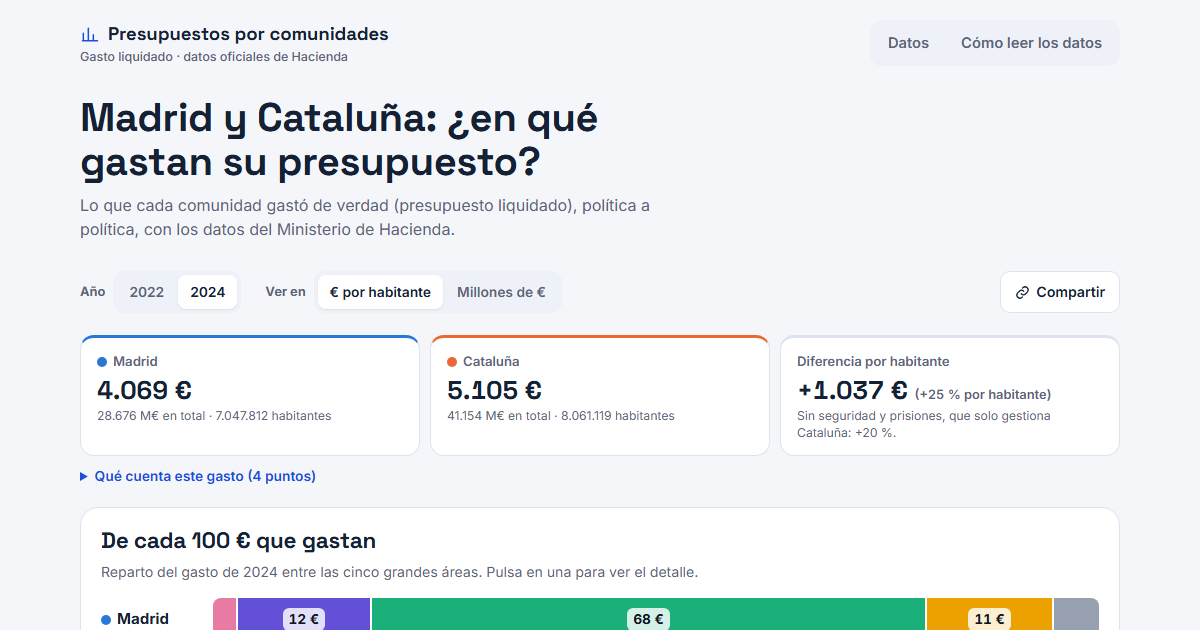
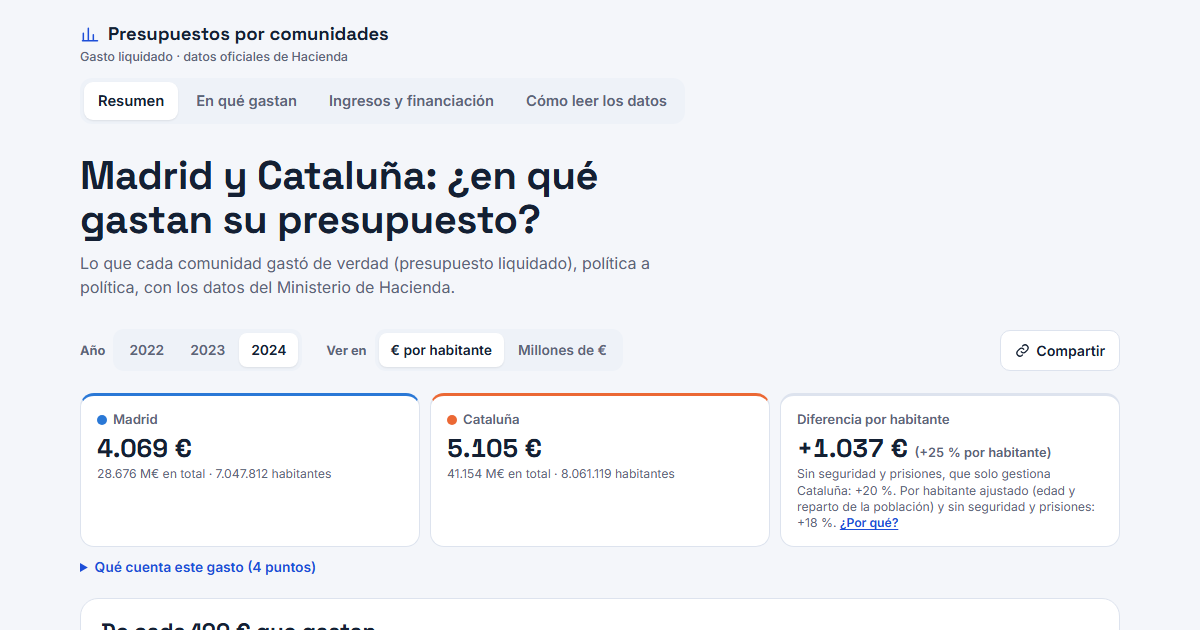
Deuda: deuda nueva neta y explicación de intereses frente a devolución; fuentes del pie; nueva imagen para compartir

diff --git a/src/components/Dinero.tsx b/src/components/Dinero.tsx
@@ -97,14 +97,35 @@ export function Deuda({ anio, u }: { anio: number; u: Unidad }) {
     { id: "viva", nombre: `Deuda acumulada a 31 de diciembre`, ayuda: "Según el Banco de España (Protocolo de Déficit Excesivo).", v: porCcaa((c) => DEUDA[c][String(anio)]), fuerte: true },
     { id: "nueva", nombre: "Préstamos nuevos en el año", ayuda: "Capítulo 9 de ingresos (pasivos financieros).", v: porCcaa((c) => e(c)!.ingresos[8]) },
     { id: "devol", nombre: "Devolución de préstamos", ayuda: "Capítulo 9 de gastos.", v: porCcaa((c) => e(c)!.gastos[8]) },
+    { id: "neto", nombre: "Deuda nueva neta del año", ayuda: "Préstamos nuevos menos devolución: lo que aumenta (o baja) la deuda por el presupuesto del año.", v: porCcaa((c) => e(c)!.ingresos[8] - e(c)!.gastos[8]) },
     { id: "int", nombre: "Intereses pagados", ayuda: "Capítulo 3 de gastos (gastos financieros).", v: porCcaa((c) => e(c)!.gastos[2]) },
   ];
+  // Intereses frente a devolución, con la otra comunidad escalada a la misma población (para comparar en millones)
+  const pob = (c: Ccaa) => porHab(1, c, anio) ? 1000 / porHab(1, c, anio) : 0; // habitantes
+  const [C1, C2] = CCAA;
+  const r = pob(C2) / pob(C1);
+  const dInt = e(C2)!.gastos[2] - e(C1)!.gastos[2] * r, dDev = e(C2)!.gastos[8] - e(C1)!.gastos[8] * r;
+  const m = (x: number) => `${new Intl.NumberFormat("es-ES", { maximumFractionDigits: 0, useGrouping: "always" } as Intl.NumberFormatOptions).format(Math.abs(x) / 1000)} M€ ${x < 0 ? "menos" : "más"}`;
   return (
     <section className="panel">
       <h2>Deuda</h2>
       <p className="sub">{u === "mill" ? "Millones de €" : "€ por habitante"}, {anio}.</p>
       <div className="leyenda">{CCAA.map((c) => <span key={c}><i style={{ background: COLOR[c] }} />{NOMBRE[c]}</span>)}</div>
       <FilasPar filas={filas} u={u} anio={anio} />
+      <details className="pliegue">
+        <summary>Intereses no es lo mismo que devolver la deuda</summary>
+        <div className="pliegue-c">
+          <p>
+            Los <b>intereses</b> son el coste de la deuda. La <b>devolución</b> (amortización) es pagar el principal de los préstamos que vencen, y casi siempre
+            se hace pidiendo préstamos nuevos: por eso no se cuenta como gasto en servicios. Si se suman las dos cosas, como hace la política «Deuda pública» del
+            presupuesto, la diferencia entre comunidades cambia mucho.
+          </p>
+          <p>
+            En {anio}, con {NOMBRE[C1]} escalada a la población de {NOMBRE[C2]}, {NOMBRE[C2]} paga <b>{m(dInt)}</b> en intereses y <b>{m(dDev)}</b> en devolución
+            de préstamos que {NOMBRE[C1]}. En esta web se compara el gasto con los intereses y sin la devolución.
+          </p>
+        </div>
+      </details>
       <p className="ayuda">Fuentes: <a href={FUENTE.deuda_url}>Banco de España, Boletín Estadístico, cuadro 13.9</a> (deuda) y liquidación de Hacienda (préstamos e intereses).</p>
     </section>
   );

diff --git a/src/components/App.tsx b/src/components/App.tsx
@@ -774,7 +774,7 @@ export function App() {
         </section>
         </>}
         <footer className="pie">
-          Fuentes: <a href={FUENTE.gasto_url}>Ministerio de Hacienda, liquidación de presupuestos de las CCAA</a> · <a href={FUENTE.poblacion_url}>INE, Estadística Continua de Población</a>.
+          Fuentes: <a href={FUENTE.gasto_url}>Ministerio de Hacienda, liquidación de presupuestos de las CCAA</a> · <a href={FUENTE.sfa_url}>liquidación del sistema de financiación</a> · <a href={FUENTE.deuda_url}>Banco de España</a> · <a href={FUENTE.poblacion_url}>INE, población</a> e IPC.
           Proyecto hermano de <a href="https://sanidad-ccaa.vercel.app/">Sanidad por comunidades</a>.
         </footer>
       </main>
